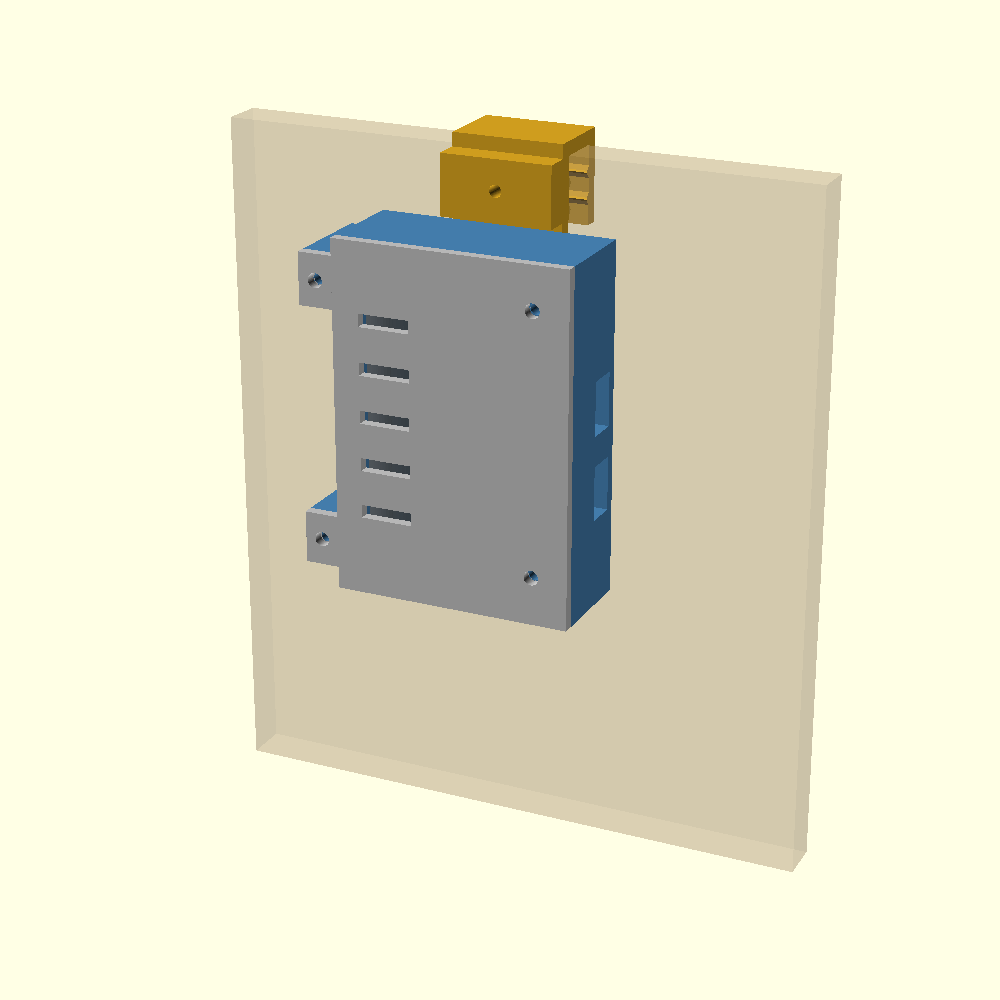
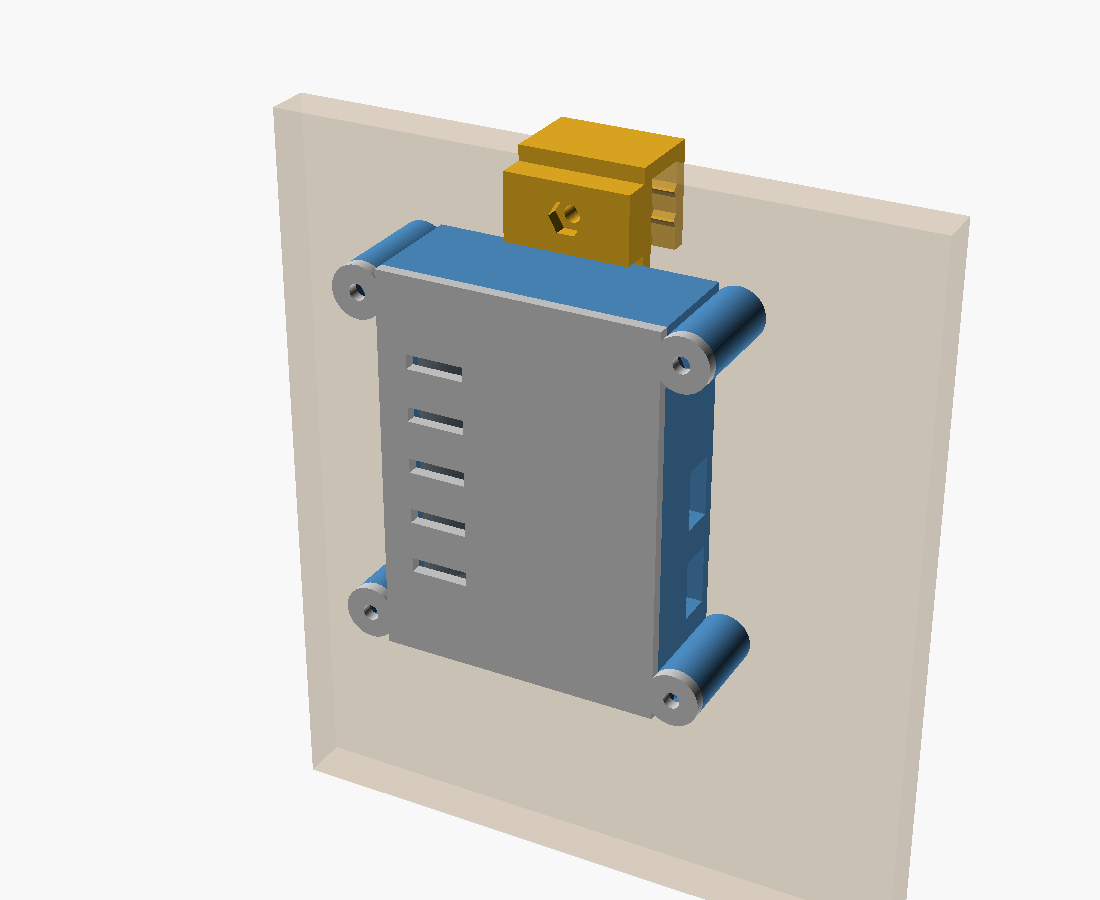
cad: eliminar todos los tornillos autorroscantes
El usuario tiene M2/M3/M4 de metrica normal a millares y ningun
autorroscante. Los tres sitios que roscaban en el plastico pasan a
tornillo pasante contra tuerca hexagonal embutida en la pieza.

- rim_hook: tuerca cautiva en la cara exterior del saliente de apriete.
  Afecta a la mordaza del sensor y al gancho de la caja a la vez.
- pod: los pilotos M2 de Ø2.1 pasan a pasantes Ø2.3; la tuerca va suelta
  por detras del PCB y es lo que lo aprieta contra el bolsillo.
- caja: los dos bosses interiores de Ø7.5 no admiten una tuerca M3 (7.16
  de esquina a esquina) y en el vano no hay 11 mm libres para agrandarlos,
  asi que los cuatro tornillos de la tapa se van a orejas exteriores con
  la tuerca embutida por arriba, retenida por la propia tapa. La caja
  crece de 58 a 77 mm de ancho y el vano queda libre para el cableado.

De paso, correcciones de ajuste que venian pendientes:
- board_bay_w +3 -> +6: el TP4056 de 26 mm no entraba por 0.25 mm.
- window_d 8.0 -> 7.5: con Ø8 el PCB del sensor apoyaba en 1.9 mm de
  reborde. El minimo optico son 7.3.
- asserts nuevos: apoyo del PCB, agujeros del modulo fuera de la ventana,
  encaje de cada modulo en los dos ejes, y huecos de USB contra orejas.

7/7 piezas exportan.

Changed region(s): [[0.217, 0.0933, 0.899, 1.0]]

diff --git a/docs/superpowers/specs/2026-09-04-egg-basket-monitor-design.md b/docs/superpowers/specs/2026-09-04-egg-basket-monitor-design.md
@@ -193,10 +193,33 @@ lámina de latón o clip metálico, cable USB-C, filamento PETG.
 | | **Total** | | **~8-12** |
 
 La lista completa, con las longitudes exactas de tornillo que calcula el modelo,
-vive en `docs/bom.md`. Dos ítems de la primera versión han caído: los **imanes
-de neodimio** (la caja ya cuelga del borde con su propio gancho) y la
-**miniprotoboard** (no cabe en el vano de 29 mm, y las dos resistencias del
-divisor se sueldan en línea sobre un Dupont).
+vive en `docs/bom.md`. Tres ítems de la primera versión han caído: los **imanes
+de neodimio** (la caja ya cuelga del borde con su propio gancho), los
+**autorroscantes** (ver abajo) y la **miniprotoboard** (no cabe en el vano de
+32 mm, y las dos resistencias del divisor se sueldan en línea sobre un Dupont).
+
+### Tornillería: métrica normal en todas partes
+
+Restricción del usuario, y de las que cambian geometría: tiene M2/M3/M4 de
+métrica normal a millares, y **ningún autorroscante**. Así que en el proyecto
+no hay ni uno. Donde el tornillo no encuentra nada al otro lado, se embute una
+tuerca hexagonal en la pieza impresa y es ella la que hace de rosca; el
+hexágono a medida impide que gire, y la pieza pasa a comportarse como si
+llevara un inserto roscado.
+
+Sale ganando el diseño, no solo la lista de la compra: una rosca hecha en PLA
+se pasa a la tercera o cuarta vez que la aprietas, y estas tres uniones —tapa
+de la caja, apriete de los ganchos, módulo del sensor— son justo las que se
+van a abrir y cerrar muchas veces durante el montaje y la calibración.
+
+Los tres sitios afectados y lo que costó cada uno:
+
+- **Apriete de los dos ganchos** (`lib/rim_hook.scad`). Tuerca cautiva en la
+  cara exterior del saliente. Cambio barato: el saliente ya medía 6 mm.
+- **Módulo VL53L1X al pod** (`sensor_head.scad`). El agujero pasa de piloto
+  Ø2,1 a pasante Ø2,3 y la tuerca M2 va suelta por detrás del PCB, que es
+  también lo que lo aprieta contra el fondo del bolsillo.
+- **Tapa de la caja** (`electronics_box.scad`). El caro. Ver abajo.
 
 **Nota sobre el ítem 1:** hay que pedir explícitamente la versión pequeña de
 3.3 V. Si el módulo trae un regulador AMS1117 (Iq ~5 mA), consume por sí solo
@@ -328,9 +351,9 @@ de cinco minutos y agotaba el timeout; el poliedro tarda quince segundos.
 
 **Las longitudes de tornillería las calcula el modelo y las imprime al
 compilar**, para que no se queden obsoletas al tocar una cota. Con las cotas
-actuales: pivote M3×12, placa-mordaza 2× M3×30, apriete M3×16 (sin tuerca), y
-2× M2×6 autorroscante para el módulo. (Los mínimos calculados son 10,2 / 28,8 /
-13,2 mm; se redondean al tamaño comercial siguiente.)
+actuales: pivote M3×12, placa-mordaza 2× M3×30, apriete M3×16 y 2× M2×8 para el
+módulo, todos contra tuerca. (Los mínimos calculados son 10,2 / 28,8 / 12,2 /
+7,7 mm; se redondean al tamaño comercial siguiente.)
 
 El orden de montaje importa, porque hay piezas que quedan cautivas: las dos
 tuercas de la placa y el perno del pivote se colocan **antes** de atornillar la
@@ -352,7 +375,7 @@ vez y que se arreglen las dos.
 
 ### Caja de electrónica: tres piezas *(implementada)*
 
-`cad/electronics_box.scad`. Exterior 55 × 81 × 24 mm más las orejas.
+`cad/electronics_box.scad`. Exterior 77 × 81 × 24 mm, orejas incluidas.
 
 | Pieza | Descripción | Orientación |
 |---|---|---|
@@ -373,13 +396,24 @@ Decisiones que no son obvias:
 - **El tornillo de apriete del gancho va arriba del todo y la caja cuelga por
   debajo.** Si se solaparan, el saliente de 6 mm del tornillo chocaría contra el
   fondo de la caja y esta no apoyaría plana contra la pata.
-- **Los tornillos de la tapa son dos bosses interiores por el lado de los
-  módulos y dos orejas exteriores por el lado de la celda.** No hay bosses
-  interiores en ese lado porque la celda ocupa el rincón entero.
+- **Los cuatro tornillos de la tapa van en orejas exteriores, no en bosses
+  interiores.** Es el precio de quitar los autorroscantes, y no era evidente de
+  antemano. Una tuerca M3 mide 7,16 mm de esquina a esquina, así que en un boss
+  de Ø7,5 no cabe: dejaría 0,17 mm de pared. Agrandarlo a Ø11 tampoco, porque
+  el único hueco libre del vano —una vez colocados el TP4056, el MCU y la
+  espina— mide 2,75 mm. Con las cuatro orejas fuera la caja pasa de 58 a 77 mm
+  de ancho, pero el vano queda entero para los módulos y su cableado, que es
+  donde el espacio hacía falta de verdad.
+- **La tuerca de cada oreja va embutida por arriba, justo bajo la tapa, y es la
+  tapa la que la retiene.** Con la tuerca por abajo harían falta tornillos de
+  25 mm que además asomarían por detrás, contra la pared de la canasta. Con
+  ella arriba bastan M3×8.
 
 El modelo se autocomprueba con `assert`: que el nicho del muelle no atraviese el
-suelo, que ningún módulo pise un boss de la tapa ni la espina del gancho, y que
-ningún tornillo del gancho caiga fuera de la pata o encima del de apriete.
+suelo, que ningún módulo pise la espina del gancho ni se salga del suelo, que
+ningún hueco de USB caiga a la altura de una oreja y la abra por dentro —la
+tuerca se saldría—, y que ningún tornillo del gancho caiga fuera de la pata o
+encima del de apriete.
 
 ### Piezas pendientes
 

diff --git a/docs/bom.md b/docs/bom.md
@@ -24,7 +24,7 @@ de la celda (nunca sobre la celda).
 | 3 | Resistencias 1 MΩ 1% (×2) | `1M ohm 1% resistor` | 0.20 |
 | 4 | Dupont hembra-hembra 20 cm (pack 40) | `dupont female female 20cm` | 1-2 |
 | 5 | Termorretráctil surtido | `heat shrink tube assortment` | 1 |
-| 6 | Tornillería M3 + M2 (ver abajo) | `M3 hex socket screw assortment kit` | 2-3 |
+| 6 | Tornillería M3 + M2 (ver abajo, seguramente ya la tienes) | `M3 hex socket screw assortment kit` | 0-3 |
 
 ### Los dos ítems que importan
 
@@ -41,22 +41,32 @@ cortocircuito. No es negociable con una celda desnuda.
 
 ## Tornillería
 
+**Todo es tornillería de métrica normal. No hay ni un autorroscante.** Donde el
+tornillo no encuentra nada al otro lado, el CAD embute una tuerca hexagonal en
+la pieza y es ella la que hace de rosca: un hexágono a medida impide que gire,
+así que la pieza se comporta como si llevara un inserto. Aguanta apretar y
+aflojar indefinidamente, que es más de lo que da una rosca hecha en PLA.
+
 Las longitudes las calcula el propio modelo al compilar (`python cad/build.py`),
 así que si tocas una cota del CAD, vuelve a mirar aquí. Con las cotas actuales:
 
-| Dónde | Qué | Cantidad |
-|---|---|---|
-| Pivote de la articulación | M3×12 | 1 |
-| Placa → mordaza | M3×30 | 2 |
-| Apriete de los dos ganchos | M3×16 | 2 |
-| Caja → gancho | M3×14 | 2 |
-| Tapa de la caja | M3×10 autorroscante (rosca directo en el plástico) | 4 |
-| Módulo VL53L1X al pod | M2×6 autorroscante | 2 |
-| Tuercas M3 | 1 en el pomo, 2 en la placa, 2 en la espina de la caja | 5 |
+| Dónde | Tornillo | Tuerca | Cant. |
+|---|---|---|---|
+| Pivote de la articulación | M3×12 | 1, embutida en el pomo | 1 |
+| Placa → mordaza | M3×30 | 2, embutidas en la placa | 2 |
+| Apriete de los dos ganchos | M3×16 | 2, cautivas en el saliente | 2 |
+| Caja → gancho | M3×14 | 2, embutidas en la espina | 2 |
+| Tapa de la caja | M3×8 | 4, cautivas bajo la tapa | 4 |
+| Módulo VL53L1X al pod | M2×8 | 2, sueltas por detrás del PCB | 2 |
 
-Los tornillos de apriete de los ganchos y los de la tapa roscan directamente en
-el plástico: no llevan tuerca a propósito, porque con tuerca harían falta cabeza
-y tuerca las dos por fuera y nada haría de tope.
+**Total: 11 tornillos M3, 2 tornillos M2, 11 tuercas M3, 2 tuercas M2.**
+
+Dos detalles de montaje:
+
+- Las tuercas de las cuatro orejas de la tapa se caen si vuelcas la caja: se
+  ponen justo antes de cerrar, y es la tapa la que las retiene.
+- Las dos tuercas M2 del sensor aprietan contra un PCB desnudo. Con los dedos,
+  no con llave: a llave se raja.
 
 ## Dónde van las dos resistencias
 
@@ -64,18 +74,21 @@ El ESP32-C3 SuperMini no trae divisor de batería, así que hace falta uno de
 1 MΩ/1 MΩ para leer la tensión de la celda por GPIO3. **No lleva protoboard**:
 son dos componentes, se sueldan en línea sobre un Dupont y se aíslan con
 termorretráctil. Una miniprotoboard de 170 puntos mide 47×35 mm y no cabe en el
-vano de la caja, que tiene 29 mm de ancho.
+vano de la caja, que tiene 32 mm de ancho.
 
 El divisor consume 2.1 µA permanentes, despreciable frente a los ~500 µA del
 deep sleep de la placa.
 
 ## Lo que ya NO hace falta
 
-Dos ítems que estaban en la primera versión de la lista y han caído al avanzar
+Tres ítems que estaban en la primera versión de la lista y han caído al avanzar
 el CAD:
 
 - **Imanes de neodimio 6×3.** La caja iba a fijarse al mueble con imanes. Ahora
   cuelga del borde con su propio gancho impreso, igual que la cabeza del sensor.
+- **Tornillos autorroscantes.** Los usaban la tapa de la caja, los dos tornillos
+  de apriete y el módulo del sensor. Todos son ahora de métrica normal contra
+  tuerca; ver la tabla de arriba.
 - **Miniprotoboard de 170 puntos.** Ver arriba: no cabe y no hace falta.
 
 ## Piezas impresas
